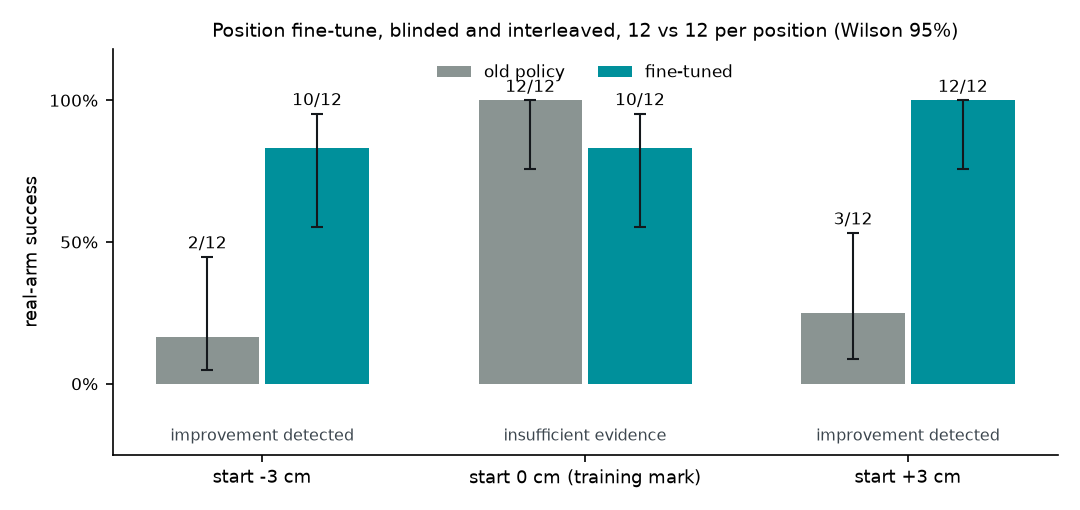
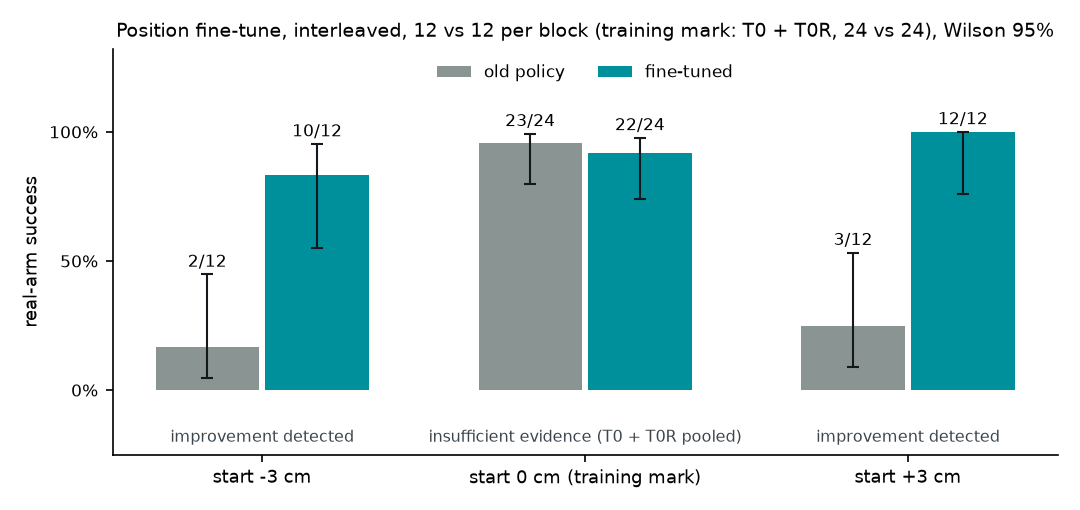
위치 파인튜닝 그림: 원래 위치는 T0+T0R 합산(24 대 24)으로 표시·제목 정정, 갤러리·세미나·영상 v6 재생성; 트윈 점검 스크립트(시뮬 기구학 vs URDF, 카메라 표식)
Claude-Session: https://claude.ai/code/session_017TFB1HSHLEw1Wug2PYhozg

diff --git a/sim/check_camera.py b/sim/check_camera.py
@@ -1,0 +1,32 @@
+"""Render small markers at the touch-grid dots and the coaster with the fitted overhead camera, and report where they
+land against the real photo's dot pixels (sim phase 1). Tries each camera_axes convention.
+Usage: sim/isaac.sh sim/check_camera.py <twin_calibration.json> <twin_camera.json> <spacing m> <out dir>"""
+import json, os, sys
+from isaacsim import SimulationApp
+app = SimulationApp({"headless": True, "width": 640, "height": 480})
+import numpy as np
+from scipy.spatial.transform import Rotation as Rot
+from isaacsim.core.api import World
+from isaacsim.core.api.objects import FixedSphere
+from isaacsim.sensors.camera import Camera
+import isaacsim.core.utils.prims as pu
+from PIL import Image
+CAL, CAM, SPm, OUT = json.load(open(sys.argv[1])), json.load(open(sys.argv[2])), float(sys.argv[3]), sys.argv[4]; os.makedirs(OUT, exist_ok=True)
+world = World(stage_units_in_meters=1.0); world.scene.add_default_ground_plane(z_position=CAL["table_z"])
+g = CAL["grid_pose"]; c, s = np.cos(g["yaw_rad"]), np.sin(g["yaw_rad"])
+GRID = np.array([[(cc - 1) * SPm, (1 - r) * SPm] for r in range(3) for cc in range(3)]) @ np.array([[c, s], [-s, c]]) + g["xy_m"]
+for i, (x, y) in enumerate(GRID): world.scene.add(FixedSphere(prim_path=f"/World/dot{i}", name=f"dot{i}", position=np.array([x, y, CAL["table_z"] + 0.004]), radius=0.006, color=np.array([1.0, 0, 0])))
+pu.create_prim("/World/Dome", "DomeLight", attributes={"inputs:intensity": 1500.0})
+Rcw = np.array(CAM["R_world_to_cam"]); tcw = np.array(CAM["t_world_to_cam"]); pos = -Rcw.T @ tcw; AP = 20.955
+cam = Camera(prim_path="/World/overhead", position=pos, resolution=(640, 480), frequency=30)
+world.reset(); cam.initialize(); cam.set_clipping_range(0.01, 50.0)
+cam.set_horizontal_aperture(AP); cam.set_focal_length(CAM["focal_px"] * AP / 640); cam.set_vertical_aperture(AP * 480 / 640)
+x, y, z, w = Rot.from_matrix(Rcw.T).as_quat()
+for axes in ("ros", "usd", "world"):
+    cam.set_world_pose(position=pos, orientation=np.array([w, x, y, z]), camera_axes=axes)
+    for _ in range(15): world.step(render=True)
+    im = cam.get_rgba()[..., :3]; Image.fromarray(im).save(f"{OUT}/cam_{axes}.png")
+    red = (im[..., 0] > 150) & (im[..., 1] < 80) & (im[..., 2] < 80); ys, xs = np.nonzero(red)
+    print(axes, "red px", int(red.sum()), "centroid", (round(float(xs.mean()), 1), round(float(ys.mean()), 1)) if red.any() else None,
+          "| real dots centroid", np.array(CAM["dots_px"]).mean(0).round(1).tolist(), "| focal mm", round(cam.get_focal_length(), 3))
+app.close()

diff --git a/sim/check_fk_vs_sim.py b/sim/check_fk_vs_sim.py
@@ -1,0 +1,30 @@
+"""Compare the twin's gripper pose in Isaac Sim with the URDF forward kinematics used for calibration (sim phase 1).
+Sets a few joint vectors directly (no drives), reads the gripper_frame_link world pose from the stage, and prints both.
+Usage: sim/isaac.sh sim/check_fk_vs_sim.py <robot usd> <urdf>"""
+import sys
+from isaacsim import SimulationApp
+app = SimulationApp({"headless": True})
+import numpy as np, xml.etree.ElementTree as ET
+import omni.usd
+from pxr import UsdGeom, Usd
+from isaacsim.core.api import World
+from isaacsim.core.prims import SingleArticulation
+from isaacsim.core.utils.stage import add_reference_to_stage
+USD, URDF = sys.argv[1:3]
+src = open("sim/fk_scene_estimate.py").read(); exec(src[src.index("def rpy"):src.index("def q_of")])
+world = World(stage_units_in_meters=1.0); stage = omni.usd.get_context().get_stage()
+add_reference_to_stage(USD, "/World/so101")
+from pxr import UsdPhysics
+fj = UsdPhysics.FixedJoint.Define(stage, "/World/so101/base_fixed"); fj.CreateBody1Rel().SetTargets(["/World/so101/Geometry/base_link"])
+arm = world.scene.add(SingleArticulation(prim_path="/World/so101", name="so101")); world.reset(); arm.initialize()
+names = arm.dof_names
+paths = {p.GetName(): p.GetPath() for p in stage.Traverse() if p.GetName() in ("gripper_frame_link", "gripper_link", "wrist_link", "base_link")}
+print("dofs", names, "paths", {k: str(v) for k, v in paths.items()})
+for qd in ([0, 0, 0, 0, 0], [30, 0, 0, 0, 0], [0, 30, 0, 0, 0], [0, 0, 30, 0, 0], [0, 0, 0, 30, 0], [10, 20, -30, 40, 0]):
+    q = np.zeros(len(names))
+    for k, j in enumerate(["shoulder_pan", "shoulder_lift", "elbow_flex", "wrist_flex", "wrist_roll"]): q[names.index(j)] = np.deg2rad(qd[k])
+    arm.set_joint_positions(q); world.step(render=False)
+    sim = {k: np.array(UsdGeom.Xformable(stage.GetPrimAtPath(paths[k])).ComputeLocalToWorldTransform(Usd.TimeCode.Default()).ExtractTranslation()) for k in ("gripper_link", "gripper_frame_link") if k in paths}
+    ref = fk({n: np.deg2rad(v) for n, v in zip(["shoulder_pan", "shoulder_lift", "elbow_flex", "wrist_flex", "wrist_roll"], qd)} | {"gripper": 0.0}, "gripper_link")[:3, 3]
+    print(qd, "sim gripper_link", sim.get("gripper_link", np.zeros(3)).round(4), "| urdf fk", ref.round(4), "| sim frame_link", sim.get("gripper_frame_link", np.full(3, np.nan)).round(4))
+app.close()

diff --git a/scripts/d3_figures.py b/scripts/d3_figures.py
@@ -69,6 +69,7 @@ def ft_position(T, out):
     for r in T["rows"]:
         if r["candidate"] != "FT-FP16": continue
         pos = "+3 cm" if "+3" in r["context"] else ("-3 cm" if "-3" in r["context"] else "0 cm (training mark)")
+        if pos in by and "pooled" not in r["context"]: continue   # training mark: the T0 + T0R pooled row wins over T0 alone
         by[pos] = r
     if not by: return False
     order = [k for k in ("-3 cm", "0 cm (training mark)", "+3 cm") if k in by]
@@ -80,11 +81,12 @@ def ft_position(T, out):
             ax.bar(x, p, width=0.32, color=col, label=lab if i == 0 else None)
             ax.errorbar(x, p, yerr=[[max(p - lo, 0)], [max(hi - p, 0)]], color="#14181C", capsize=3, lw=1)
             ax.text(x, hi + 0.03, f"{kk}/{nn}", ha="center", fontsize=8)
-        ax.text(i, -0.2, r["verdict"].replace("_", " ").lower(), ha="center", fontsize=7.5, color="#3C464E")
+        ax.text(i, -0.2, r["verdict"].replace("_", " ").lower() + (" (T0 + T0R pooled)" if "pooled" in r["context"] else ""), ha="center", fontsize=7.5, color="#3C464E")
     ax.set_xticks(range(len(order))); ax.set_xticklabels([f"start {k}" for k in order], fontsize=8.5)
-    ax.set_ylim(-0.25, 1.18); ax.set_yticks([0, 0.5, 1]); ax.set_yticklabels(["0%", "50%", "100%"], fontsize=8)
+    ax.set_ylim(-0.25, 1.32); ax.set_yticks([0, 0.5, 1]); ax.set_yticklabels(["0%", "50%", "100%"], fontsize=8)
     ax.set_ylabel("real-arm success", fontsize=8.5); ax.legend(fontsize=8, frameon=False, loc="upper center", ncol=2)
-    ax.set_title("Position fine-tune, blinded and interleaved, 12 vs 12 per position (Wilson 95%)", fontsize=9)
+    pooled = any("pooled" in r["context"] for r in by.values())
+    ax.set_title("Position fine-tune, interleaved, 12 vs 12 per block" + (" (training mark: T0 + T0R, 24 vs 24)" if pooled else "") + ", Wilson 95%", fontsize=9)
     for sp in ("top", "right"): ax.spines[sp].set_visible(False)
     fig.tight_layout(); fig.savefig(f"{out}/fig_ft_position.png"); plt.close(fig); return True
 
